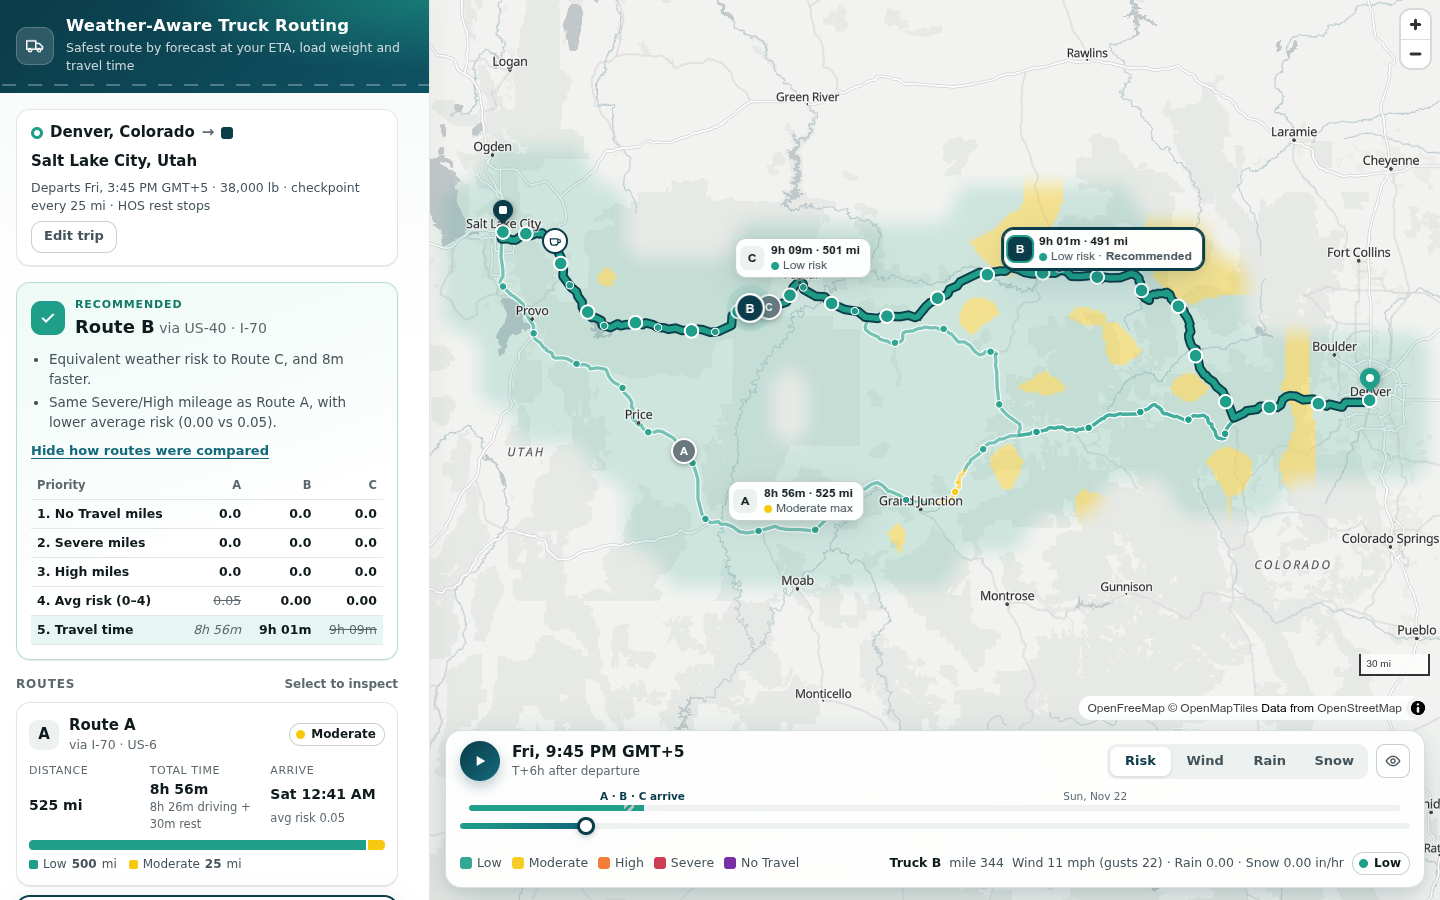
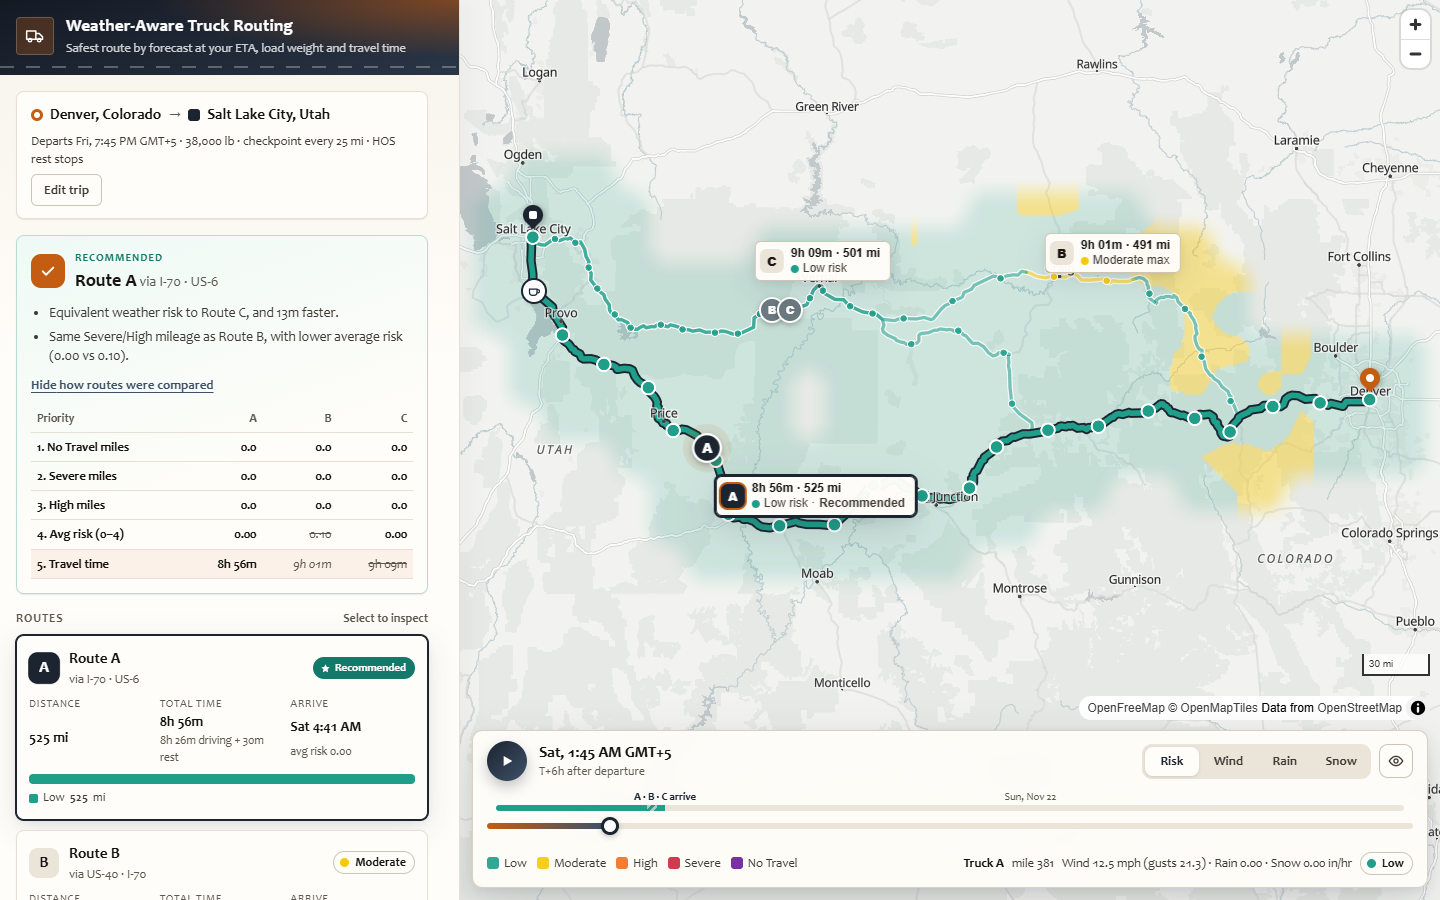
Restyle the planner and document the Vercel deploy.
The shell is navy and amber so this build looks like its own version. Routing, risk rules, and the API are unchanged.

diff --git a/frontend/src/styles/global.css b/frontend/src/styles/global.css
@@ -1,32 +1,32 @@
 :root {
   color-scheme: light;
-  --brand: #0b3c49;
-  --brand-600: #0f5263;
-  --brand-500: #13697c;
-  --brand-50: #e8f3f4;
-  --accent: #1f9e89;
-  --accent-50: #e6f6f2;
-  --surface: #ffffff;
-  --surface-2: #f6f8f7;
-  --surface-3: #edf1ef;
-  --page: #eef3f2;
-  --ink: #0f1a1d;
-  --ink-2: #44525a;
-  --ink-3: #5c686d; /* 5.6:1 on white */
-  --line: #e2e7e5;
-  --line-strong: #c8d0cd;
+  --brand: #1c2430;
+  --brand-600: #2c3848;
+  --brand-500: #3e5168;
+  --brand-50: #eef1f5;
+  --accent: #c45c12;
+  --accent-50: #fbf1e8;
+  --surface: #fffdf9;
+  --surface-2: #f6f2ea;
+  --surface-3: #ebe4d8;
+  --page: #f3efe6;
+  --ink: #161410;
+  --ink-2: #3f3a34;
+  --ink-3: #5c564e; /* 5.7:1 on white */
+  --line: #e6dfd4;
+  --line-strong: #cfc4b4;
   --danger: #b4232f;
   --danger-bg: #fdecee;
   --warning: #7a4f00;
   --warning-bg: #fff5d9;
-  --info-bg: #eaf3fb;
-  --info: #1d4f7a;
-  --focus: #2a78d6;
-  --radius: 14px;
-  --radius-sm: 9px;
-  --shadow-1: 0 1px 2px rgba(15, 26, 29, 0.06), 0 1px 1px rgba(15, 26, 29, 0.04);
-  --shadow-2: 0 8px 28px rgba(15, 26, 29, 0.12), 0 2px 6px rgba(15, 26, 29, 0.06);
-  --shadow-3: 0 14px 40px rgba(11, 60, 73, 0.16), 0 4px 10px rgba(11, 60, 73, 0.08);
+  --info-bg: #eef2f8;
+  --info: #243e66;
+  --focus: #9a4a0e;
+  --radius: 8px;
+  --radius-sm: 6px;
+  --shadow-1: 0 1px 2px rgba(28, 36, 48, 0.06), 0 1px 1px rgba(28, 36, 48, 0.04);
+  --shadow-2: 0 8px 28px rgba(28, 36, 48, 0.12), 0 2px 6px rgba(28, 36, 48, 0.06);
+  --shadow-3: 0 14px 40px rgba(28, 36, 48, 0.16), 0 4px 10px rgba(28, 36, 48, 0.08);
   --ease-out: cubic-bezier(0.2, 0.8, 0.2, 1);
   --ease-spring: cubic-bezier(0.34, 1.56, 0.64, 1);
   --risk-0: #1f9e89;
@@ -36,9 +36,10 @@
   --risk-4: #6a1b9a;
   --sidebar-w: 460px;
   font-family:
+    Candara,
+    'Segoe UI',
     system-ui,
     -apple-system,
-    'Segoe UI',
     Roboto,
     'Helvetica Neue',
     Arial,
@@ -164,12 +165,12 @@ button {
 @keyframes glow {
   0% {
     box-shadow:
-      0 0 0 0 rgba(31, 158, 137, 0.45),
+      0 0 0 0 rgba(196, 92, 18, 0.45),
       var(--shadow-1);
   }
   100% {
     box-shadow:
-      0 0 0 12px rgba(31, 158, 137, 0),
+      0 0 0 12px rgba(196, 92, 18, 0),
       var(--shadow-1);
   }
 }
@@ -247,7 +248,7 @@ button {
   display: flex;
   flex-direction: column;
   min-height: 0;
-  background: linear-gradient(180deg, #f7faf9 0%, #ffffff 40%);
+  background: linear-gradient(180deg, #f7f3ea 0%, #fffdf9 40%);
   border-right: 1px solid var(--line);
   box-shadow: 4px 0 24px rgba(15, 26, 29, 0.04);
   z-index: 2;
@@ -313,8 +314,8 @@ button {
   padding: 16px 16px 18px;
   color: #fff;
   background:
-    radial-gradient(120% 140% at 100% 0%, rgba(31, 158, 137, 0.55) 0%, transparent 55%),
-    linear-gradient(135deg, #0b3c49 0%, #0f5263 100%);
+    radial-gradient(120% 140% at 100% 0%, rgba(196, 92, 18, 0.55) 0%, transparent 55%),
+    linear-gradient(160deg, #141a24 0%, #2a3546 100%);
   overflow: hidden;
 }
 
@@ -347,8 +348,8 @@ button {
 .header-mark {
   width: 38px;
   height: 38px;
-  border-radius: 11px;
-  background: rgba(255, 255, 255, 0.14);
+  border-radius: 4px;
+  background: rgba(196, 92, 18, 0.28);
   border: 1px solid rgba(255, 255, 255, 0.2);
   display: grid;
   place-items: center;
@@ -364,7 +365,7 @@ button {
   line-height: 1.2;
   margin: 0;
   font-weight: 700;
-  letter-spacing: 0.01em;
+  letter-spacing: 0.03em;
 }
 
 .header p {
@@ -445,13 +446,13 @@ button {
 }
 
 .input:hover {
-  border-color: #9fb0ab;
+  border-color: #b7aa98;
 }
 
 .input:focus {
   outline: none;
   border-color: var(--accent);
-  box-shadow: 0 0 0 4px rgba(31, 158, 137, 0.16);
+  box-shadow: 0 0 0 4px rgba(196, 92, 18, 0.16);
 }
 
 .input[aria-invalid='true'] {
@@ -722,7 +723,7 @@ input[type='range'] {
   gap: 8px;
   height: 42px;
   padding: 0 16px;
-  border-radius: 11px;
+  border-radius: var(--radius-sm);
   border: 1px solid transparent;
   font-weight: 700;
   font-size: 14.5px;
@@ -736,7 +737,7 @@ input[type='range'] {
 .btn-primary {
   background: linear-gradient(135deg, var(--brand) 0%, var(--brand-500) 100%);
   color: #fff;
-  box-shadow: 0 6px 16px rgba(11, 60, 73, 0.25);
+  box-shadow: 0 6px 16px rgba(28, 36, 48, 0.25);
 }
 
 .btn-primary::after {
@@ -750,7 +751,7 @@ input[type='range'] {
 
 .btn-primary:hover:not(:disabled) {
   transform: translateY(-1px);
-  box-shadow: 0 10px 22px rgba(11, 60, 73, 0.3);
+  box-shadow: 0 10px 22px rgba(28, 36, 48, 0.3);
 }
 
 .btn-primary:hover:not(:disabled)::after {
@@ -1445,10 +1446,10 @@ input[type='range'] {
   bottom: 12px;
   z-index: 3;
   padding: 10px 14px 12px;
-  background: rgba(255, 255, 255, 0.94);
+  background: rgba(255, 253, 249, 0.94);
   backdrop-filter: blur(10px) saturate(1.2);
-  border: 1px solid rgba(200, 208, 205, 0.7);
-  border-radius: 16px;
+  border: 1px solid rgba(207, 196, 180, 0.8);
+  border-radius: 10px;
   box-shadow: var(--shadow-3);
   display: grid;
   gap: 8px;
@@ -1475,7 +1476,7 @@ input[type='range'] {
   display: grid;
   place-items: center;
   flex: none;
-  box-shadow: 0 6px 14px rgba(11, 60, 73, 0.28);
+  box-shadow: 0 6px 14px rgba(28, 36, 48, 0.28);
   transition: transform 0.2s var(--ease-spring);
 }
 
@@ -1648,7 +1649,7 @@ input[type='range'] {
   border-radius: 50%;
   background: #fff;
   border: 3px solid var(--brand);
-  box-shadow: 0 2px 6px rgba(11, 60, 73, 0.3);
+  box-shadow: 0 2px 6px rgba(28, 36, 48, 0.3);
   transition:
     transform 0.15s var(--ease-spring),
     box-shadow 0.15s;
@@ -1660,13 +1661,13 @@ input[type='range'] {
   border-radius: 50%;
   background: #fff;
   border: 3px solid var(--brand);
-  box-shadow: 0 2px 6px rgba(11, 60, 73, 0.3);
+  box-shadow: 0 2px 6px rgba(28, 36, 48, 0.3);
 }
 
 .time-slider:hover::-webkit-slider-thumb,
 .time-slider:focus-visible::-webkit-slider-thumb {
   transform: scale(1.18);
-  box-shadow: 0 0 0 6px rgba(31, 158, 137, 0.18);
+  box-shadow: 0 0 0 6px rgba(196, 92, 18, 0.18);
 }
 
 .time-slider:focus-visible {
@@ -1855,7 +1856,7 @@ input[type='range'] {
   height: 8px;
   border-radius: 50%;
   background: var(--accent);
-  box-shadow: 0 0 0 4px rgba(31, 158, 137, 0.2);
+  box-shadow: 0 0 0 4px rgba(196, 92, 18, 0.2);
 }
 
 .route-chip {
@@ -1863,9 +1864,9 @@ input[type='range'] {
   align-items: center;
   gap: 7px;
   padding: 4px 10px 4px 4px;
-  border-radius: 11px;
+  border-radius: 6px;
   border: 1px solid var(--line-strong);
-  background: rgba(255, 255, 255, 0.97);
+  background: rgba(255, 253, 249, 0.97);
   box-shadow: var(--shadow-2);
   font-size: 12px;
   line-height: 1.25;
@@ -2137,7 +2138,7 @@ input[type='range'] {
 
 dialog.rules {
   border: 0;
-  border-radius: 16px;
+  border-radius: 10px;
   padding: 0;
   max-width: min(640px, calc(100vw - 32px));
   box-shadow: var(--shadow-3);
@@ -2148,7 +2149,7 @@ dialog.rules[open] {
 }
 
 dialog.rules::backdrop {
-  background: rgba(15, 26, 29, 0.45);
+  background: rgba(22, 20, 16, 0.5);
   backdrop-filter: blur(2px);
 }
 

diff --git a/frontend/src/components/Sidebar.tsx b/frontend/src/components/Sidebar.tsx
@@ -94,14 +94,14 @@ function HeroArt() {
           style={{ animationDelay: `${0.9 + i! * 0.12}s` }}
         />
       ))}
-      <circle cx="40" cy="98" r="7" fill="#1f9e89" stroke="#fff" strokeWidth="3" />
+      <circle cx="40" cy="98" r="7" fill="#c45c12" stroke="#fff" strokeWidth="3" />
       <rect
         x="355"
         y="23"
         width="14"
         height="14"
-        rx="3"
-        fill="#0b3c49"
+        rx="2"
+        fill="#1c2430"
         stroke="#fff"
         strokeWidth="3"
       />
@@ -148,12 +148,12 @@ function LoadingState() {
     <div className="section" aria-busy="true">
       <div className="card loading-card rise">
         <svg className="loading-road" viewBox="0 0 360 54" aria-hidden="true">
-          <rect x="0" y="30" width="360" height="18" rx="9" fill="#e9eeec" />
+          <rect x="0" y="30" width="360" height="18" rx="4" fill="#ebe4d8" />
           <line className="lane" x1="0" y1="39" x2="360" y2="39" stroke="#fff" strokeWidth="2.5" />
           <g className="truck" transform="translate(150 6)">
-            <rect x="0" y="6" width="40" height="22" rx="4" fill="#0b3c49" />
-            <path d="M40 12h10l8 8v8H40z" fill="#13697c" />
-            <rect x="44" y="14" width="7" height="5" rx="1" fill="#cfe9e3" />
+            <rect x="0" y="6" width="40" height="22" rx="2" fill="#1c2430" />
+            <path d="M40 12h10l8 8v8H40z" fill="#c45c12" />
+            <rect x="44" y="14" width="7" height="5" rx="1" fill="#f6e2d2" />
             <circle cx="10" cy="29" r="4.5" fill="#1f2b30" />
             <circle cx="48" cy="29" r="4.5" fill="#1f2b30" />
           </g>

diff --git a/frontend/src/map/mapController.ts b/frontend/src/map/mapController.ts
@@ -40,8 +40,8 @@ const LYR = {
   cpFocus: 'cp-focus',
   cpHover: 'cp-hover',
 };
-const ACCENT = '#1f9e89';
-const BRAND = '#0b3c49';
+const ACCENT = '#c45c12';
+const BRAND = '#1c2430';
 const EMPTY: FeatureCollection = { type: 'FeatureCollection', features: [] };
 const NONE = ['==', ['get', 'routeId'], '__none__'] as maplibregl.FilterSpecification;
 
@@ -305,7 +305,7 @@ export class MapController {
       source: SRC.hover,
       paint: {
         'circle-radius': 11,
-        'circle-color': 'rgba(31,158,137,0.18)',
+        'circle-color': 'rgba(196,92,18,0.18)',
         'circle-stroke-color': ACCENT,
         'circle-stroke-width': 2.5,
       },

diff --git a/frontend/index.html b/frontend/index.html
@@ -4,7 +4,7 @@
     <meta charset="UTF-8" />
     <meta name="viewport" content="width=device-width, initial-scale=1.0" />
     <meta name="description" content="Plan the safest truck route using forecast weather at each checkpoint's ETA, load-weight risk rules and travel time." />
-    <meta name="theme-color" content="#0b3c49" />
+    <meta name="theme-color" content="#1c2430" />
     <link rel="icon" type="image/svg+xml" href="/favicon.svg" />
     <link rel="preconnect" href="https://tiles.openfreemap.org" crossorigin />
     <title>Weather-Aware Truck Routing</title>

diff --git a/backend/config/settings.py b/backend/config/settings.py
@@ -32,6 +32,11 @@ ALLOWED_HOSTS = env_list("DJANGO_ALLOWED_HOSTS", "localhost,127.0.0.1,[::1],test
 ALLOWED_HOSTS += [h for h in ("localhost", "127.0.0.1") if h not in ALLOWED_HOSTS]
 if render_host := os.environ.get("RENDER_EXTERNAL_HOSTNAME"):
     ALLOWED_HOSTS.append(render_host)
+# Vercel sets VERCEL=1 and VERCEL_URL to the deployment host (no scheme).
+if os.environ.get("VERCEL"):
+    ALLOWED_HOSTS.append(".vercel.app")
+    if vercel_url := os.environ.get("VERCEL_URL"):
+        ALLOWED_HOSTS.append(vercel_url)
 CSRF_TRUSTED_ORIGINS = env_list("DJANGO_CSRF_TRUSTED_ORIGINS")
 
 INSTALLED_APPS = [

diff --git a/README.md b/README.md
@@ -3,9 +3,6 @@
 A React + Django app that helps a truck driver pick the safest route by **weather at the
 time the truck will actually be there**, **load weight** and **travel time**.
 
-> **Live demo:** https://weather-aware-truck-routing-rho-three.vercel.app ·
-> **Walkthrough video:** _add the Loom link_
-
 ![Simulated storm on the fastest route; the recommendation avoids it](docs/screenshots/storm-recommendation.png)
 
 | Live forecast (Denver → Salt Lake City) | Wind layer at T+13h | Phone |
@@ -127,22 +124,21 @@ smoke-tests it.
 
 ## Deploy
 
-**Live (Vercel):** the React build is served as static files and the Django API runs as a
-Python function. The backend is stateless (no database), so serverless fits.
+The UI and the API are one product. The browser calls `/api/plan`, `/api/heatmap`,
+`/api/geocode`, `/api/rules` and `/api/health` on the same origin. Those endpoints are unchanged.
 
-- `vercel.json`: builds `frontend/`, routes `/api/*` to the function, sets a 60 s limit
-- `api/index.py`: exposes Django's WSGI app to Vercel
-- `requirements.txt` (root): the function's Python dependencies
+**Vercel serves the React build and the Django API.** The API is stateless (no database),
+so one serverless function fits. `vercel.json` builds `frontend/`, publishes `frontend/dist`,
+and sends `/api/*` to `api/index.py` (60 s limit). Root `requirements.txt` is that function's
+Python dependencies. On Vercel, set `DJANGO_SECRET_KEY`. Hosts under `.vercel.app` are allowed
+automatically.
 
 ```bash
 vercel link && vercel deploy --prod
 ```
 
-Set `DJANGO_SECRET_KEY` and `DJANGO_ALLOWED_HOSTS=.vercel.app` in the project's environment
-variables.
-
-**Docker (any container host):** one image serves the API and the built app.
-`render.yaml` deploys it on Render as a Blueprint, or run it anywhere:
+**Docker serves the same UI and API in one container.** `render.yaml` is an optional Render
+blueprint for that image.
 
 ```bash
 docker build -t truck-routing . && docker run -p 8000:8000 -e DJANGO_SECRET_KEY=change-me truck-routing
@@ -151,7 +147,7 @@ docker build -t truck-routing . && docker run -p 8000:8000 -e DJANGO_SECRET_KEY=
 | Variable | Default | Purpose |
 |---|---|---|
 | `DJANGO_SECRET_KEY` | required | Django secret |
-| `DJANGO_ALLOWED_HOSTS` | localhost | add your domain (Render's hostname is added automatically) |
+| `DJANGO_ALLOWED_HOSTS` | localhost | add the host that serves this app |
 | `DJANGO_FRAME_ANCESTORS` | – | sites allowed to embed the app in an iframe |
 | `OPEN_METEO_API_KEY` | – | optional commercial key (higher limits) |
 | `TRUCK_TARE_LB` / `TRUCK_MAX_SPEED_MPH` | 35000 / 65 | truck assumptions |
@@ -171,7 +167,7 @@ frontend/
   src/components/      form, recommendation, route cards, checkpoint table, timeline
   e2e/                 Playwright specs
 shared/                golden test vectors used by both test suites
-docs/                  architecture notes, walkthrough script, screenshots
+docs/                  architecture notes and screenshots
 ```
 
 ## Limitations
